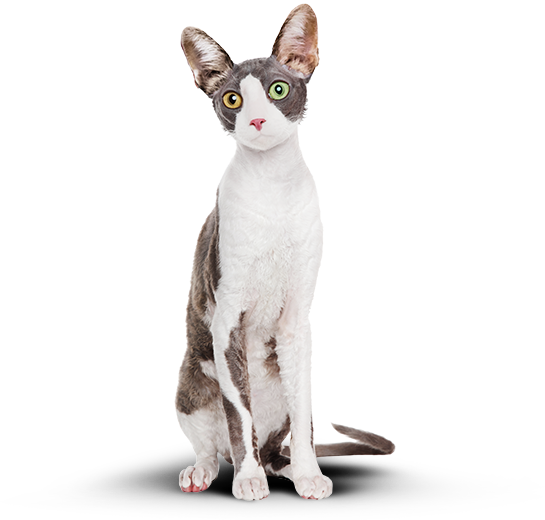
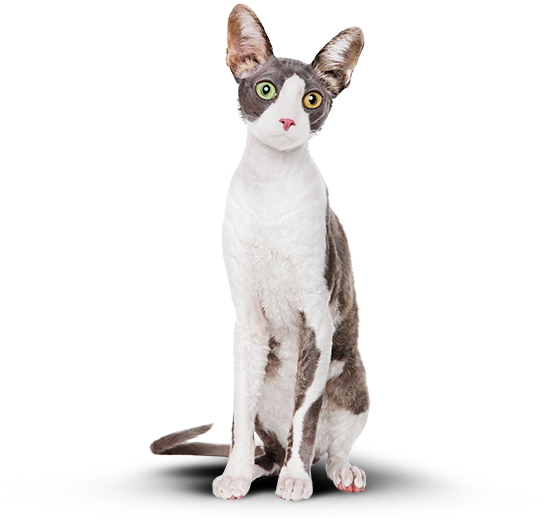
slider v2.0.0

Changed region(s): [[0.2183, 0.0, 0.7798, 0.9846]]

diff --git a/source/sass/blocks/slider.scss b/source/sass/blocks/slider.scss
@@ -1,14 +1,18 @@
 .slider__image-wrapper {
   display: flex;
-  width: 320px;
   margin: 0 auto;
 }
 
 .slider__image-before {
-  width: 320px;
+  display: none;
+  width: 100%;
   height: 272px;
   background-image: url(../../img/stats/before-mobile.png);
   background-repeat: no-repeat;
+
+  &--active {
+    display: block;
+  }
 
   @media (min-resolution: 1.5dppx) {
     background-image: url(../../img/stats/before-mobile@2x.png);
@@ -17,10 +21,15 @@
 }
 
 .slider__image-after {
-  width: 320px;
+  display: none;
+  width: 100%;
   height: 272px;
   background-image: url(../../img/stats/after-mobile.png);
   background-repeat: no-repeat;
+
+  &--active {
+    display: block;
+  }
 
   @media (min-resolution: 1.5dppx) {
     background-image: url(../../img/stats/after-mobile@2x.png);
@@ -28,13 +37,12 @@
   }
 }
 
+
 .slider__controls {
-  width: 320px;
-  margin: 0 auto;
-  padding: 0 50px 30px 54px;
+  width: 219px;
   display: flex;
-  justify-content: space-around;
-  box-sizing: border-box;
+  justify-content: space-between;
+  margin: 15px auto 0;
 }
 
 .slider__range {
@@ -58,7 +66,8 @@
   height: 6px;
   border-radius: 10px;
   background-color: $basic_green;
-  transform: translateY(0);
+  transform: translateX(0);
+  transition: .5s ease-out;
 }
 
 .slider__button {
@@ -75,13 +84,14 @@
 
 @media (min-width: $tablet-width) {
   .slider__image-wrapper {
-    width: 768px;
     display: flex;
     flex-direction: row;
+    align-items: center;
+    position: relative;
   }
 
   .slider__image-before {
-    width: 545px;
+    width: 50%;
     height: 548px;
     background-image: url(../../img/stats/cat-fat.png);
     background-position: 16px 11px;
@@ -95,11 +105,12 @@
 
   .slider__image-after {
     display: block;
-    width: 545px;
+    width: 50%;
     height: 548px;
     background-image: url(../../img/stats/cat-skinny.png);
-    background-position: -338px 11px;
+    background-position: 16px 11px;
     background-repeat: no-repeat;
+    transform: scaleX(-1);
 
     @media (min-resolution: 1.5dppx) {
       background-image: url(../../img/stats/cat-skinny@2x.png);
@@ -109,22 +120,53 @@
 
   .slider__controls {
     width: 570px;
-    margin: 0 auto;
-    padding: 0 0 68px;
-    justify-content: space-between;
+    margin: 13px auto 0;
   }
 
   .slider__button {
     font-size: 20px;
     line-height: 20px;
+    border-bottom: 1px dotted $basic_black;
   }
 
   .slider__range {
-    width: 430px;
-    height: 6px;
+    width: 428px;
+    height: 35px;
     margin-top: 7px;
-    background-color: $special_grey-4;
+    background-color: transparent;
+    transform: translate(4px, 11px);
     border: 0;
+  }
+
+  .slider__range-input {
+    display: block;
+    appearance: none;
+    width: 100%;
+    height: 6px;
+    background-color: $special_grey-4;
+    outline: none;
+    cursor: pointer;
+    border-radius: 6px;
+
+    &::-webkit-slider-thumb {
+      appearance: none;
+      background-color: $basic_green;
+      border: 12px solid $basic_white;
+      width: 34px;
+      height: 34px;
+      box-shadow: 1px 1px 0 $special_grey-2;
+      border-radius: 50%;
+    }
+
+    &::-moz-range-thumb {
+      appearance: none;
+      background-color: $basic_green;
+      border: 18px solid $basic_white;
+      width: 8px;
+      height: 8px;
+      box-shadow: 1px 1px 0 $special_grey-2;
+      border-radius: 50%;
+    }
   }
 
   .slider__range-toggle {
@@ -133,10 +175,14 @@
     border: 1px solid $special_grey-2;
     width: 34px;
     height: 34px;
-    top: -17px;
+    top: -11px;
     left: 194px;
     background-color: $basic_white;
     box-sizing: border-box;
+    // z-index: -1;
+    transform: translateX(-8px);
+    cursor: pointer;
+    display: none;
 
     &::after {
       position: absolute;
@@ -167,10 +213,11 @@
   .slider__image-after {
     width: 285px;
     height: 578px;
-    background-position: -365px 20px;
+    background-position: -10px 20px;
   }
 
   .slider__controls {
     margin-left: 70px;
+    margin-top: -25px;
   }
 }

diff --git a/source/js/slider.js b/source/js/slider.js
@@ -1,22 +1,66 @@
+const clientWidth = document.body.clientWidth;
+const tabletWidth = 768;
+
 // Slider
 const progress = document.querySelector('.slider');
-console.log(progress.classList.contains('slider__image-before--active'));
+const imageAfter = document.querySelector('.slider__image-after');
+const imageBefore = document.querySelector('.slider__image-before');
+const scale = progress.querySelector('.slider__range');
+const range = scale.querySelector('.slider__range-input');
+const rangeToggle = scale.querySelector('.slider__range-toggle');
+
+console.log(imageAfter.classList.contains('slider__image-after--active'));
+console.log(imageBefore.classList.contains('slider__image-before--active'));
 
 if (progress) {
   const btnBefore = progress.querySelector('.slider__button--before');
   const btnAfter = progress.querySelector('.slider__button--after');
 
   btnBefore.addEventListener('click', function () {
-    if(progress.classList.contains('slider__image-after--active')) {
+    if (imageAfter.classList.contains('slider__image-after--active')) {
       console.log('click');
-      // progress.classList.remove('slider__image-after--active');
+      imageAfter.classList.remove('slider__image-after--active');
+      imageBefore.classList.add('slider__image-before--active');
+      imageBefore.style.width = `${100}%`;
+      imageAfter.style.width = `${0}%`;
+      rangeToggle.style.transform = 'translateX(0%)';
     }
   })
 
   btnAfter.addEventListener('click', function () {
-    if(progress.classList.contains('slider__image-before--active')) {
+    if (imageBefore.classList.contains('slider__image-before--active')) {
       console.log('click');
-      // progress.classList.remove('slider__image-before--active');
+      imageBefore.classList.remove('slider__image-before--active');
+      imageAfter.classList.add('slider__image-after--active');
+      imageAfter.style.width = `${100}%`;
+      imageBefore.style.width = `${0}%`;
+      rangeToggle.style.transform = 'translateX(100%)';
     }
   })
+
+  if (clientWidth >= tabletWidth) {
+
+    range.value = '50%';
+
+    range.addEventListener('input', function () {
+      // console.log((100 - range.value) + '%');
+      // rangeToggle.style.left = `${0 + range.value}%`;
+      imageBefore.style.width = `${100 - range.value}%`
+      imageAfter.style.width = `${range.value}%`;
+    })
+
+    btnBefore.addEventListener('click', function () {
+      range.value = 1;
+      // rangeToggle.style.left = `${0}%`;
+      imageBefore.style.width = '100%';
+      imageAfter.style.width = '0%';
+    });
+
+    btnAfter.addEventListener('click', function () {
+      range.value = 100;
+      // rangeToggle.style.left = `${100}%`;
+      imageBefore.style.width = '0%';
+      imageAfter.style.width = '100%';
+    });
+  }
 }

diff --git a/source/sass/blocks/stats.scss b/source/sass/blocks/stats.scss
@@ -89,6 +89,7 @@
       linear-gradient(180deg, $basic_white 618px, transparent 0%),
       linear-gradient(270deg, $background-2 50%, $basic_grey 0%);
     border-top: 1px solid $border-2;
+    padding-bottom: 64px;
   }
 
   .stats__description {
@@ -104,7 +105,6 @@
   }
 
   .stats__text {
-    width: 700px;
     padding-bottom: 53px;
     font-size: 16px;
     line-height: 24px;
@@ -149,6 +149,7 @@
       linear-gradient(180deg, $basic_white 210px, transparent 0%),
       linear-gradient(270deg, $background-2 20%, $basic_grey 0%);
     border: 0;
+    padding-bottom: 75px;
   }
 
   .stats__wrapper {
@@ -161,7 +162,7 @@
     width: 580px;
     margin: 75px 0 0;
     flex-direction: column;
-    justify-content: flex-start;
+    justify-content: space-between;
   }
 
   .stats__title {

diff --git a/source/index.html b/source/index.html
@@ -110,8 +110,8 @@
         </div>
         <div class="stats__slider slider">
           <div class="slider__image-wrapper">
-            <div class="slider__image-before slider__image-before--active" style="width: 100%"></div>
-            <div class="slider__image-after" style="width: 0%;"></div>
+            <div class="slider__image-before slider__image-before--active"></div>
+            <div class="slider__image-after"></div>
           </div>
           <div class="slider__controls">
             <button class="slider__button slider__button--before" type="button">Было</button>
